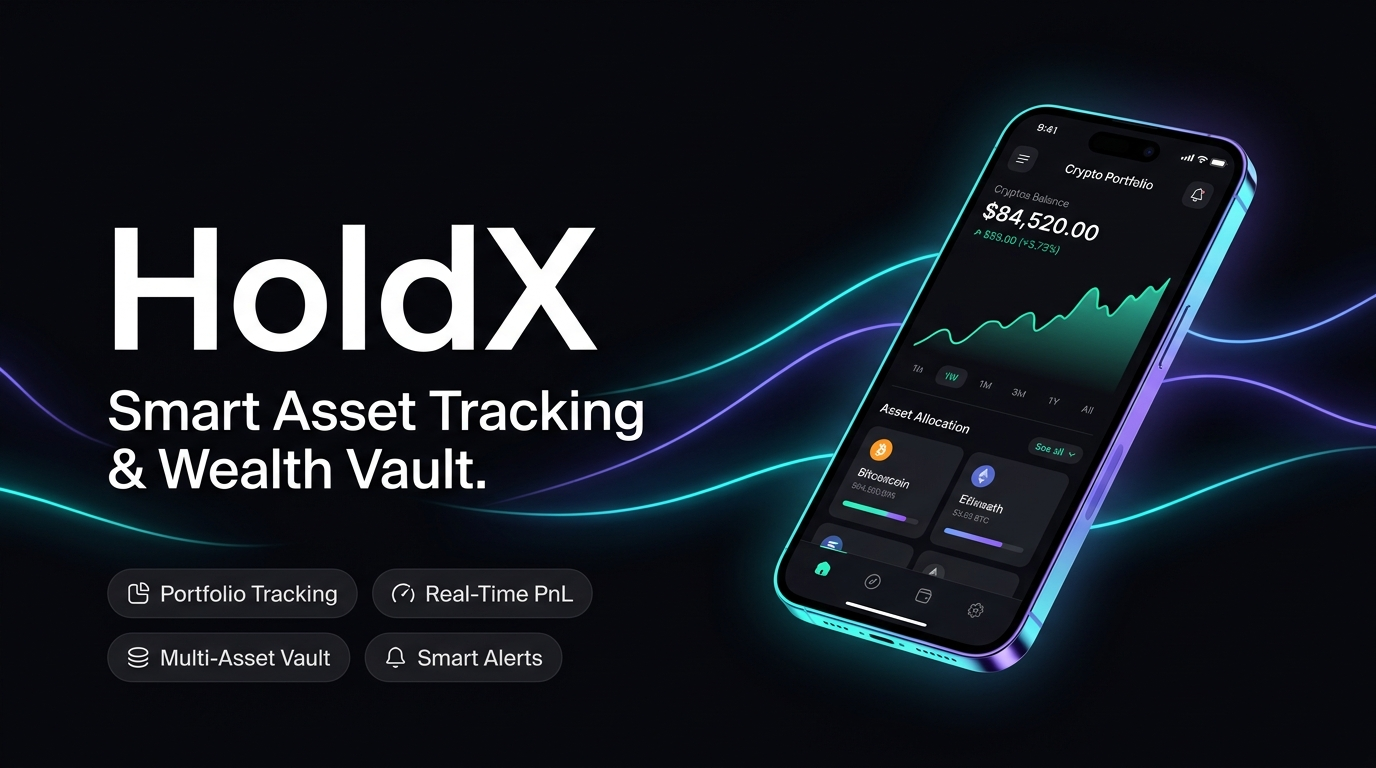
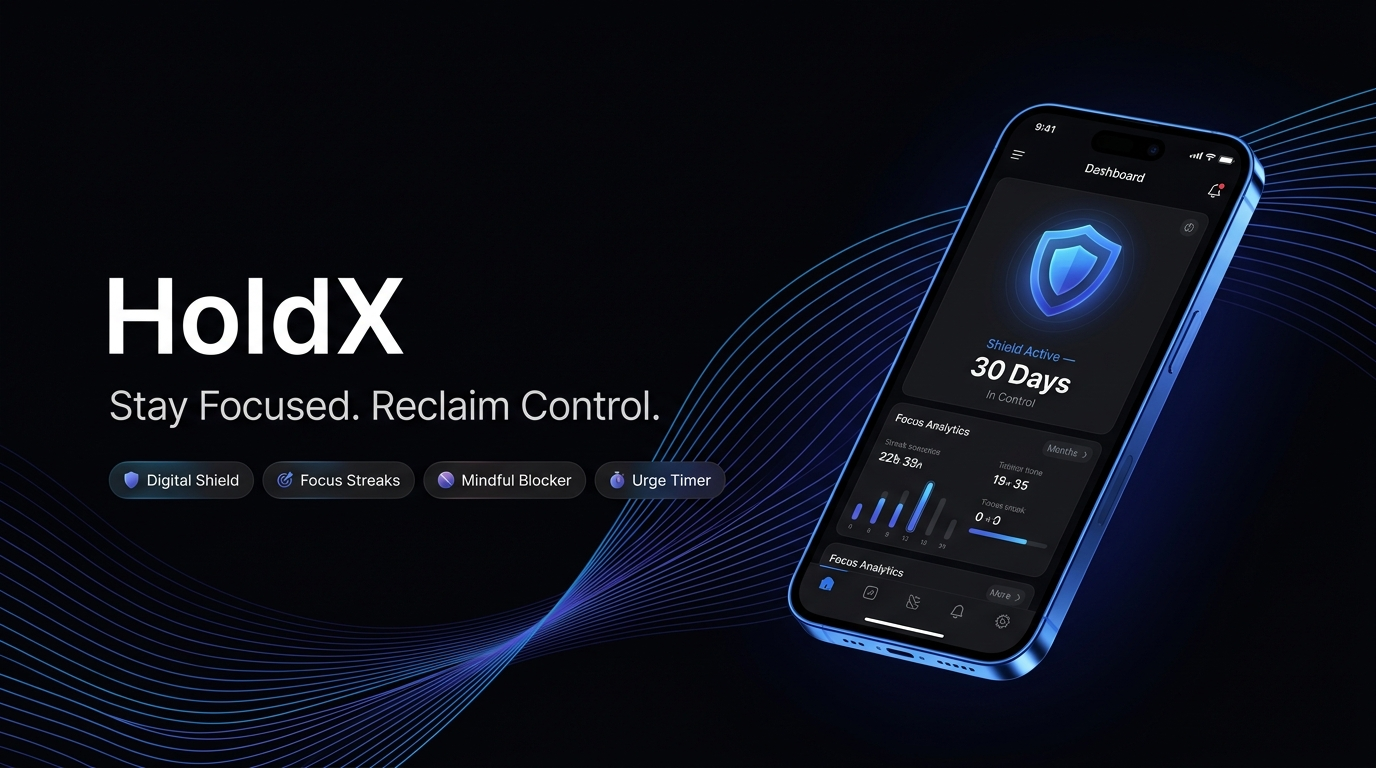
Update HoldX showcase graphic to Focus & Digital Shield

Changed region(s): [[0.0, 0.125, 1.0, 1.0], [0.0625, 0.2812, 0.4375, 0.4688], [0.0, 0.4688, 0.0312, 0.5312]]

diff --git a/index.html b/index.html
@@ -556,10 +556,10 @@
                   <div class="project-item-icon-box">
                     <ion-icon name="eye-outline"></ion-icon>
                   </div>
-                  <img src="./assets/images/project-holdx-showcase.png" alt="HoldX Asset Tracking & Wealth Vault" loading="lazy">
+                  <img src="./assets/images/project-holdx-showcase.png" alt="HoldX Focus & Digital Shield" loading="lazy">
                 </figure>
 
-                <h3 class="project-title">HoldX — Asset Tracking & Vault</h3>
+                <h3 class="project-title">HoldX — Focus & Digital Shield</h3>
                 <p class="project-category">Flutter • iOS & Android (Open Source)</p>
               </a>
             </li>
